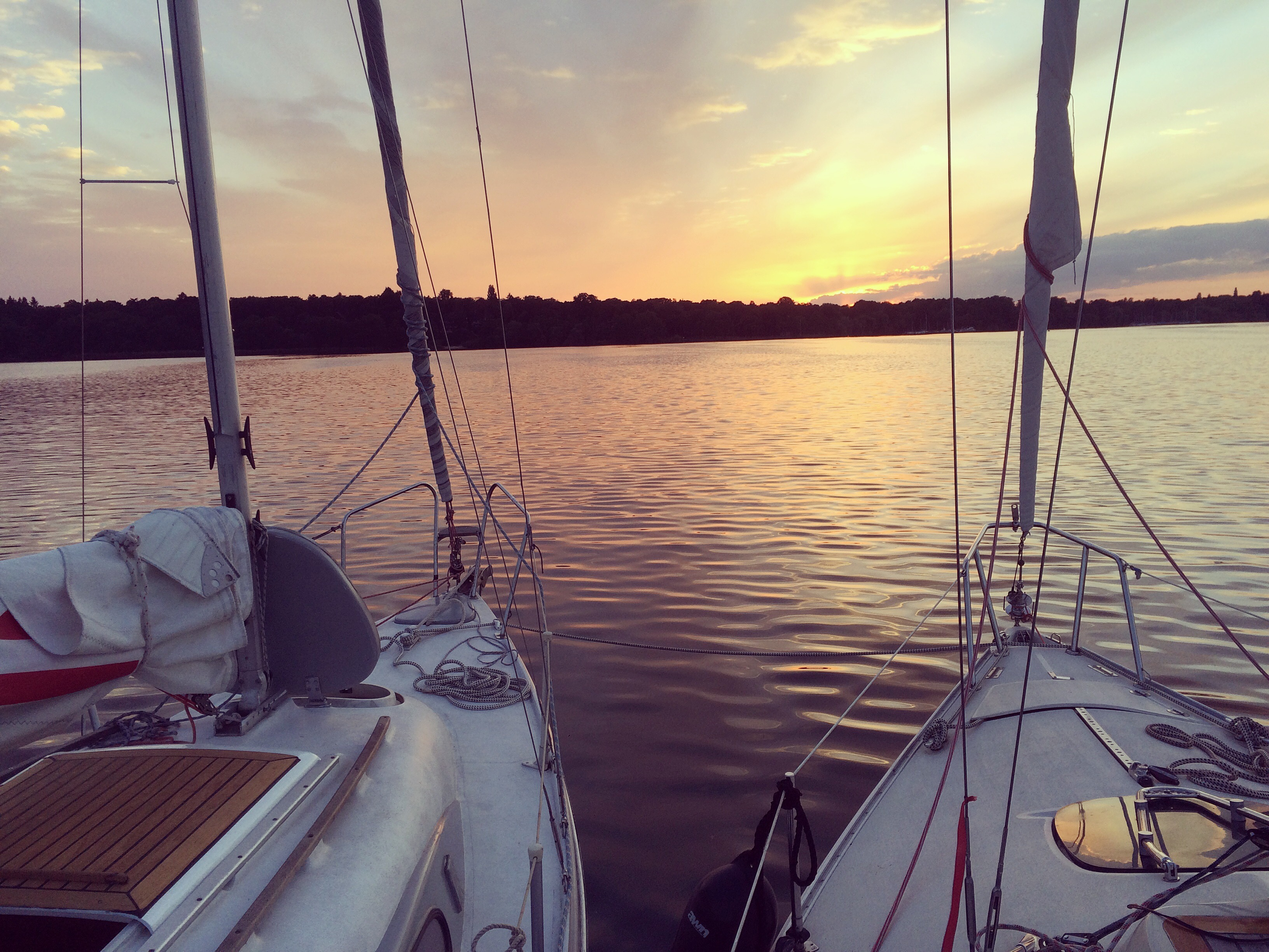
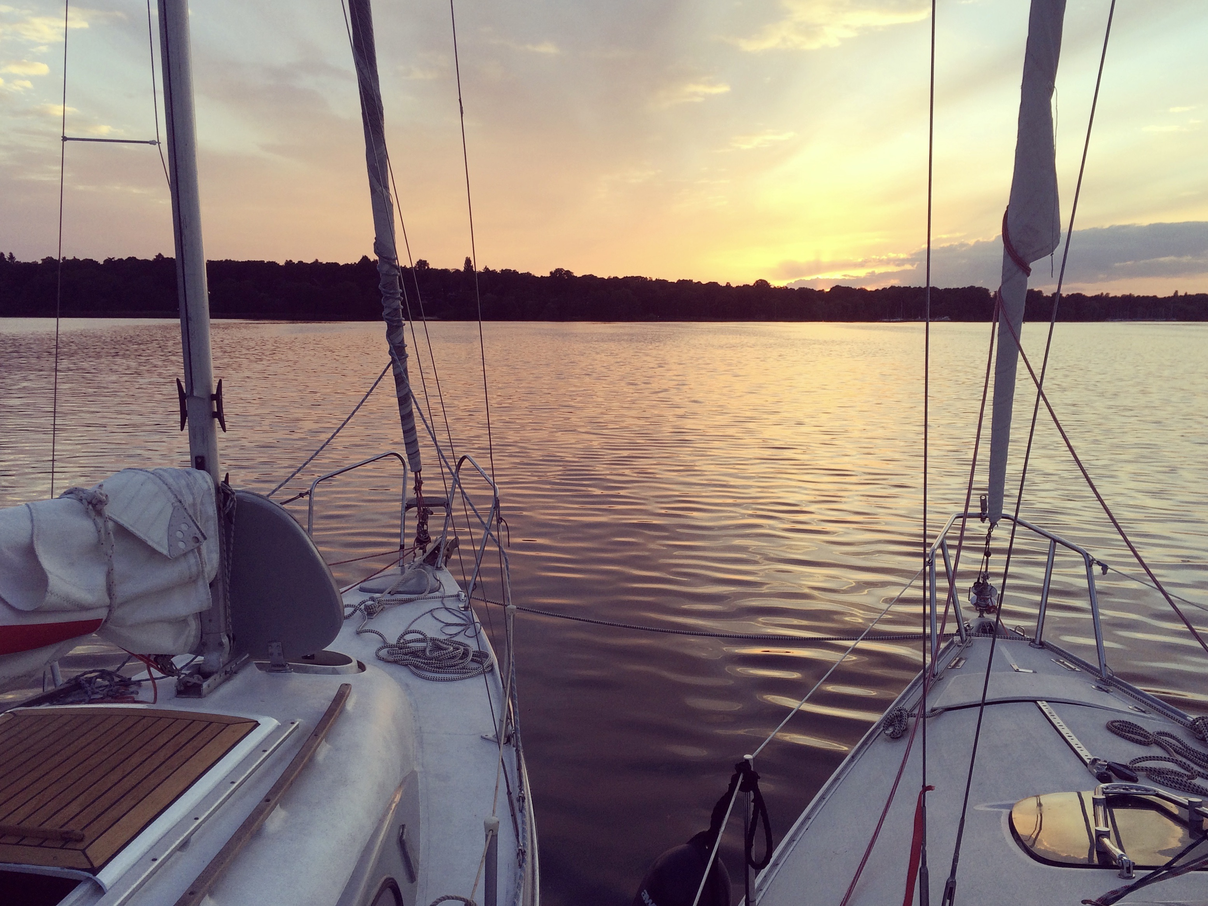
created kontakt, added hover effects to page, popup content not working yet -> problems with loading pictures into popup

diff --git a/src/index.js b/src/index.js
@@ -139,13 +139,23 @@ import loadPopUp from "./loadPopUp";
                 imgContainer.style.cssText = 'display: flex; align-items: center; justify-content: center';
                 const aboutImg = document.createElement('img');
                     aboutImg.src = meImg;
-                    aboutImg.style.cssText = 'width: 80%; height 80%'
+                    aboutImg.style.cssText = 'width: 80%; height 80%';
                     
-            imgContainer.append(aboutImg)
-                
+            imgContainer.append(aboutImg);
+    
+     about.append(imgContainer, aboutContent);
 
+    const kontakt = document.createElement('div');
+        kontakt.id = 'kontakt';
+        const kontaktContainer = document.createElement('div');
+            kontaktContainer.style.cssText = 'height: 80%; width: 60%; background-color:rgb(0,0,0,0.5); display: flex; align-items: center; justify-content: space-around; padding: 10px; border-radius: 20px '
+            const myInfo = document.createElement('div');
+                myInfo.innerHTML = '<h2>Sören Modery-Diekhans<br>Wakenitzmauer 130<br>23552 Lübeck<p>s.modery-diekhans@web.de</p><p>+49(0)1723900214</p></h2>'
+            const mailForm = document.createElement('div');
+                mailForm.innerHTML = '<form class="contact-form" action="mailto:s.modery-diekhans@web.de" method="POST" enctype="text/plain"><h2>Kontakt</h2><input type="text" name="name" placeholder="Dein Name" required><input type="email" name="email" placeholder="Deine Email" required><textarea name="message" placeholder="Deine Nachricht" rows="5" required></textarea><button type="submit">Nachricht abschicken</button></form>';
+        kontaktContainer.append(myInfo, mailForm)
 
-        about.append(imgContainer, aboutContent)
+    kontakt.appendChild(kontaktContainer );
 
     const footer = document.createElement('div');
         footer.id = "footer";
@@ -154,9 +164,9 @@ import loadPopUp from "./loadPopUp";
         const agb = document.createElement('div');
             agb.innerHTML = 'AGB';
         const datenschutz = document.createElement('div');
-            datenschutz.innerHTML = 'datenschutz';
+            datenschutz.innerHTML = 'Datenschutz';
         footer.append(impressum, agb, datenschutz)
 
-    body.append(header, infoContent, serviceContent, about, footer);
+    body.append(header, infoContent, serviceContent, about, kontakt, footer);
 })();
 

diff --git a/src/loadPopUp.js b/src/loadPopUp.js
@@ -1,7 +1,5 @@
-import gutachtenImg_1 from './images/gutachtenImg1';
-import gutachtenImg_2 from './images/gutachtenImg2';
-import gutachtenImg_3 from './images/gutachtenImg3';
-import gutachtenImg_4 from './images/gutachtenImg4';
+
+
 
 export default function loadPopUp (service) {
     
@@ -20,35 +18,16 @@ export default function loadPopUp (service) {
                 imgContainer.style.gridTemplateRows = '1fr 1fr';
                 imgContainer.style.padding = '5px';
                 imgContainer.style.borderRadius = '5px';
-                imgContainer.id = 'imgContainer';
+                imgContainer.id = 'popupImg';
                 
 
             const textContainer = document.createElement('div');
                 textContainer.style.textAlign = 'center';
                 textContainer.style.padding = '5px';
-                textContainer.id = 'textContainer';
+                textContainer.id = 'popupText';
                 
-            content.append(closeBtn, imgContainer, textContainer)
+            content.append(closeBtn, imgContainer, textContainer);
     
-    popUp.appendChild(content)
-
-    const gutachtenContent = document.createElement('div');
-        gutachtenContent.innerHTML = 'Sie brauchen ein Gutachten für Schäden am Boot, für die Versicherung oder im Streitfall? Oder möchten den Wert Ihres Bootes ermitteln lassen? Gerne erstelle ich ein Schadengutachten oder Wertgutachten. Bei kleinen Schäden kann auch schon ein Kurzgutachten ausreichen. Mit einem Gutachten durch einen Sachverständigen für Sportboote stellen Sie sicher, dass sämtliche Schäden erfasst und kalkuliert werden, damit Ihr Boot wieder fachmännisch Instand gesetzt werden kann.'
-    const gutachtenImg1 = document.createElement('img');
-        gutachtenImg1.src = gutachtenImg_1;
-    const gutachtenImg2 = document.createElement('img');
-        gutachtenImg2.src = gutachtenImg_2;
-    const gutachtenImg3 = document.createElement('img');
-        gutachtenImg3.src = gutachtenImg_3;
-    const gutachtenImg4 = document.createElement('img');
-        gutachtenImg4.src = gutachtenImg_4;
-
-        switch (service) {
-            case "gutachten":
-                imgContainer.append(gutachtenImg1, gutachtenImg2, gutachtenImg3, gutachtenImg4)
-                textContainer.appendChild(gutachtenContent);
-        }       
-
-
+    popUp.appendChild(content);
 
 }

diff --git a/src/styles.css b/src/styles.css
@@ -29,9 +29,11 @@ h4{
 .navbarItems {
     font-size: medium;
     cursor: pointer;
+    transition: 0.5s ease;
 }
 .navbarItems:hover {
-    font-size: large;
+    transform: scale(1.2);
+    transition: 0.5s ease;
 }
 
 #infoContent {
@@ -52,7 +54,7 @@ h4{
     background-image: url(./images/backgroundImg.png);
     background-repeat: repeat;
     background-size: 200px;
-    height: 80vh;
+    height: 85vh;
     
     display: flex;
     align-items: center;
@@ -64,8 +66,17 @@ h4{
 
 .service{
     width: 20vw;
+    cursor: pointer;
+    transition: 0.5s ease;
+    
 }
 
+.service:hover{
+    transform: scale(1.2);
+    transition: 0.5s ease;
+    
+    
+}
 .popUp {
     display: flex; 
     position: absolute; 
@@ -94,12 +105,57 @@ h4{
 }
 
 .about {
-    height: 100vh;
+    height: 85vh;
     display: flex;
     line-height: 2;
     padding-left: 100px; 
     padding-right: 100px;
 
+}
+
+#kontakt {
+    height: 85vh;
+    background-image: url(./images/IMG_9026.JPG);
+    background-position: center;
+    background-size: cover;
+    display: flex;
+    align-items: center;
+    justify-content: center;
+    color: #f5f5dc;
+    
+}
+
+.contact-form{
+    display: flex;
+    align-items: center;
+    flex-direction: column;
+    gap: 5vh;
+    
+}
+.contact-form button {
+    width: fit-content;
+    padding-left: 10px;
+    padding-right: 10px;
+    border-radius: 5px;
+    cursor: pointer;
+}
+
+.contact-form button:hover,input:hover,textarea:hover {
+    transform: scale(1.2);
+    transition: 0.5s ease;
+}
+
+.contact-form button,input,textarea {
+    transition: 0.5s ease;
+}
+
+.contact-form input {
+    width: 15vw;
+}
+
+.contact-form textarea {
+    width: 20vw;
+    height: 20vh;
 }
 
 
@@ -113,9 +169,16 @@ h4{
     gap: 30px;
     background-color: rgb(40, 42, 46);
     color: #f5f5dc;
-    font-size: x-large;
+    font-size: large;
     bottom: 0;
     left: 0;
     cursor: pointer;
     
+}
+
+#footer div {
+    cursor: pointer;
+}
+#footer div:hover {
+    text-decoration: underline;
 }

diff --git a/src/loadGutachtenContent.js b/src/loadGutachtenContent.js
@@ -1,0 +1,14 @@
+
+
+const gutachtenContent = document.createElement('div');
+gutachtenContent.innerHTML = 'Sie brauchen ein Gutachten für Schäden am Boot, für die Versicherung oder im Streitfall? Oder möchten den Wert Ihres Bootes ermitteln lassen? Gerne erstelle ich ein Schadengutachten oder Wertgutachten. Bei kleinen Schäden kann auch schon ein Kurzgutachten ausreichen. Mit einem Gutachten durch einen Sachverständigen für Sportboote stellen Sie sicher, dass sämtliche Schäden erfasst und kalkuliert werden, damit Ihr Boot wieder fachmännisch Instand gesetzt werden kann.'
+const gutachtenImg1 = document.createElement('img');
+gutachtenImg1.src = gutachtenImg_1;
+const gutachtenImg2 = document.createElement('img');
+gutachtenImg2.src = gutachtenImg_2;
+const gutachtenImg3 = document.createElement('img');
+gutachtenImg3.src = gutachtenImg_3;
+const gutachtenImg4 = document.createElement('img');
+gutachtenImg4.src = gutachtenImg_4;
+
+ 

diff --git a/src/scrollToElement.js b/src/scrollToElement.js
@@ -26,6 +26,16 @@ export default function scrollToElement (liId) {
                 top: targetPosition - offset,
                 behavior: 'smooth'
                 });
+                break
+        case 'li-3':
+            target = document.getElementById('kontakt');
+            targetPosition = target.getBoundingClientRect().top + window.scrollY;
+
+                window.scrollTo({
+                top: targetPosition - offset,
+                behavior: 'smooth'
+                });
+
     // still need to add case li-3 as soon as contetn for kontakt is created
     
   
